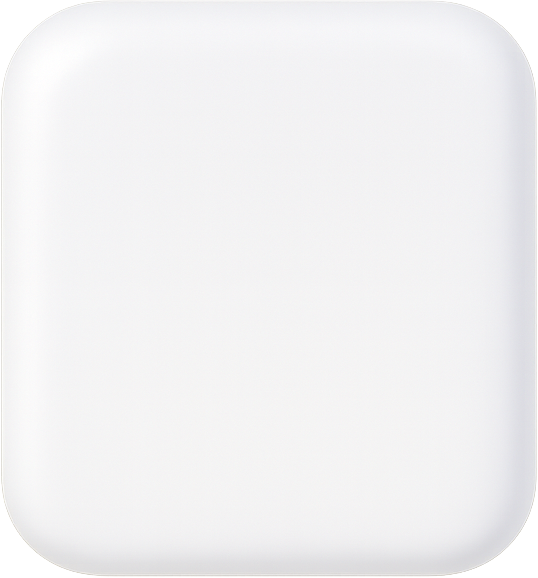
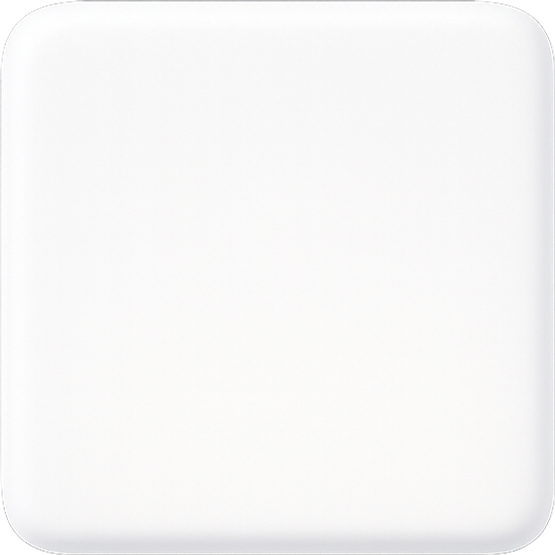
fix(canvas): the top-view cube is an exact square matching the 3/4 cube; the medium-full shot reads «۳/۴»
- cube-top regenerated from the 3/4 cube (same clay, rounding and shading) as a top face only, then cut to its solid shape (its soft
  shadow left out) and made exactly square (`square` in the generator; `--refinish` re-cuts saved raw images without generating).
- The shot size between medium and full is labelled «۳/۴» instead of «تا زانو» (a brief saying «تا زانو» still picks it).

diff --git a/scripts/generate-visual-assets.ts b/scripts/generate-visual-assets.ts
@@ -19,7 +19,8 @@ const STYLE="Isolated single object, 3D render in a soft matte clay style with a
  * lighting and level of simplification match across the pack. The list is in dependency order.
  */
 export const ANCHOR="person-side";
-export const ASSETS:{id:string;ref?:string;prompt:string;size:"1024x1024"|"1024x1536"|"1536x1024"}[]=[
+export const ASSETS:{id:string;ref?:string;prompt:string;size:"1024x1024"|"1024x1536"|"1536x1024";
+ /** Cut to its solid shape (no soft shadow) and made exactly square: a face that must have equal sides. */square?:boolean}[]=[
  {id:"person-side",size:"1024x1536",prompt:"A stylized faceless mannequin person standing upright, seen exactly from the side (profile, facing right), full body from head to feet: a smooth sphere head, a rounded capsule torso with the arm resting along the side, two straight rounded legs together. Neutral pose."},
  {id:"person-front",ref:"person-side",size:"1024x1536",prompt:"A stylized faceless mannequin person standing upright, seen exactly from the front, full body from head to feet: a smooth sphere head, a rounded capsule torso with arms resting along the sides, two straight rounded legs slightly apart. Neutral pose, symmetrical."},
  {id:"person-3q",ref:"person-front",size:"1024x1536",prompt:"The same faceless mannequin person standing upright, full body from head to feet, seen in a THREE-QUARTER view: the body turned 45 degrees so its front faces toward the viewer's RIGHT (we see the front and the left side of the body), arms resting along the sides, legs together. Neutral pose."},
@@ -100,7 +101,7 @@ for(const [pet,looks] of [["dog","a stylized medium-sized DOG standing on all fo
  * Anything but a character (a product, a car, a tree, a place alone) in «بوم»'s camera and lighting diagrams: one smooth, minimal clay cube, in a
  * three-quarter view from the side and showing only its top from above (beta).
  */
-ASSETS.push({id:"cube-top",ref:"cube-3q",size:"1024x1024",prompt:"The same rounded clay CUBE as the second reference seen exactly from DIRECTLY ABOVE (top-down orthographic view): only its top face, a rounded square with softly rounded edges; no sides visible."},
+ASSETS.push({id:"cube-top",ref:"cube-3q",size:"1024x1024",square:true,prompt:"The exact same smooth clay CUBE as the second reference (the same material, the same softly rounded edges and corners, the same light clay colour and soft shading), seen exactly from DIRECTLY ABOVE in a top-down orthographic view, perfectly square to the viewer: only its top face is visible, a PERFECT SQUARE with all four sides exactly equal and all four corners equally rounded, centred, edges parallel to the image edges; no side faces visible, no perspective, no tilt."},
  {id:"cube-3q",ref:"human-3q",size:"1024x1024",prompt:"A single smooth minimal CUBE, all sides equal, with softly rounded edges and corners and plain smooth faces, no details, no text, no logo, in a classic THREE-QUARTER view from a little above: we see its top face and two of its side faces, the vertical edge between the sides toward the viewer, the sides lit differently (the left one lighter) so it reads clearly as a 3D cube. Simple and elegant."});
 /** The people's worm's-eye view in plainer words (the image model refused one with the generic wording): a toy-like figure seen from the ground. */
 const PEOPLE=new Set(["human","woman"]);
@@ -135,8 +136,16 @@ async function generate(a:(typeof ASSETS)[number]):Promise<Buffer>{
  return Buffer.from(body.data[0].b64_json,"base64");
 }
 /** Trims the transparent margin, fits the object in 640px on its long side and saves an optimized PNG; returns the final size for the manifest. */
-async function finish(id:string,raw:Buffer):Promise<{width:number;height:number}>{
- const trimmed=await sharp(raw).trim({threshold:1}).toBuffer();
+async function finish(id:string,raw:Buffer,square=false):Promise<{width:number;height:number}>{
+ let trimmed=await sharp(raw).trim({threshold:1}).toBuffer();
+ if(square){
+  // The solid shape only (its soft shadow left out), stretched to an exact square (it is drawn as a face with equal sides).
+  const {data,info}=await sharp(trimmed).ensureAlpha().raw().toBuffer({resolveWithObject:true});
+  let x0=info.width,y0=info.height,x1=-1,y1=-1;
+  for(let y=0;y<info.height;y++)for(let x=0;x<info.width;x++)if(data[(y*info.width+x)*4+3]>160){if(x<x0)x0=x;if(x>x1)x1=x;if(y<y0)y0=y;if(y>y1)y1=y;}
+  const side=Math.max(x1-x0+1,y1-y0+1);
+  trimmed=await sharp(trimmed).extract({left:x0,top:y0,width:x1-x0+1,height:y1-y0+1}).resize({width:side,height:side,fit:"fill"}).png().toBuffer();
+ }
  const out=await sharp(trimmed).resize({width:640,height:640,fit:"inside",withoutEnlargement:true}).png({compressionLevel:9,palette:false}).toBuffer();
  await writeFile(path.join(OUT,id+".png"),out);
  const m=await sharp(out).metadata();
@@ -150,10 +159,14 @@ async function main(){
  for(const a of list){
   const raw=await generate(a);
   await writeFile(path.join(RAW,a.id+".png"),raw);
-  sizes[a.id]=await finish(a.id,raw);
+  sizes[a.id]=await finish(a.id,raw,a.square);
   console.log(a.id,sizes[a.id]);
  }
  console.log(JSON.stringify(sizes));
 }
 // Run only as a script (importing it, to read ASSETS, generates nothing).
-if(process.argv[1]&&import.meta.url===pathToFileURL(path.resolve(process.argv[1])).href)main().catch(e=>{console.error(e instanceof Error?e.message:e);process.exit(1);});
+if(process.argv[1]&&import.meta.url===pathToFileURL(path.resolve(process.argv[1])).href&&process.argv[2]==="--refinish")refinish(process.argv.slice(3));
+else if(process.argv[1]&&import.meta.url===pathToFileURL(path.resolve(process.argv[1])).href)main().catch(e=>{console.error(e instanceof Error?e.message:e);process.exit(1);});
+
+/** Re-finishes saved raw images without generating (`--refinish id ...`): a change to how they are cut, for free. */
+export async function refinish(ids:string[]){for(const id of ids){const a=ASSETS.find(x=>x.id===id);if(!a)continue;console.log(id,await finish(id,await readFile(path.join(RAW,id+".png")),a.square));}}

diff --git a/lib/staging.ts b/lib/staging.ts
@@ -4,7 +4,7 @@ import {VISUALS} from "./visual-assets";
 import {displayTag,fileTagOf,normalizeMentionText} from "./attachments";
 
 export const CAMERA_ANGLE_FA:Record<Staging["cameraAngle"],string>={birds_eye:"از بالا (نمای پرنده)",high:"زاویهٔ بالا",eye_level:"همسطح چشم",low:"زاویهٔ پایین",worms_eye:"از پایین (نمای کرم)",dutch:"زاویهٔ کج (داچ)"};
-export const SHOT_SIZE_FA:Record<Staging["shotSize"],string>={extreme_close_up:"خیلی نزدیک",close_up:"نمای نزدیک",medium_close_up:"نزدیک متوسط",medium:"نمای متوسط",medium_full:"تا زانو",full:"تمامقد",wide:"نمای باز",extreme_wide:"خیلی باز"};
+export const SHOT_SIZE_FA:Record<Staging["shotSize"],string>={extreme_close_up:"خیلی نزدیک",close_up:"نمای نزدیک",medium_close_up:"نزدیک متوسط",medium:"نمای متوسط",medium_full:"۳/۴",full:"تمامقد",wide:"نمای باز",extreme_wide:"خیلی باز"};
 export const LIGHT_ROLE_FA:Record<StagingLight["role"],string>={key:"نور اصلی",fill:"نور پرکننده",rim:"نور پشت",background:"نور پسزمینه",practical:"منبع داخل صحنه"};
 export const LIGHT_SOURCE_FA:Record<StagingLight["source"],string>={sun:"خورشید",sky:"نور آسمان",window:"پنجره",softbox:"سافتباکس",led_panel:"پنل LED",practical:"چراغ صحنه",neon:"نئون",fire:"آتش",moon:"ماه",flash:"فلاش"};
 export const LIGHT_QUALITY_FA:Record<StagingLight["quality"],string>={soft:"نرم",hard:"سخت"};

diff --git a/lib/visual-assets.ts b/lib/visual-assets.ts
@@ -11,7 +11,7 @@ export const VISUALS:Record<string,VisualAsset>={
  "camera-side":{src:"/visuals/camera-side.png",width:640,height:360},
  "camera-top":{src:"/visuals/camera-top.png",width:373,height:640},
  "cube-3q":{src:"/visuals/cube-3q.png",width:584,height:610},
- "cube-top":{src:"/visuals/cube-top.png",width:538,height:578},
+ "cube-top":{src:"/visuals/cube-top.png",width:555,height:555},
  "env-mountains":{src:"/visuals/env-mountains.png",width:640,height:376},
  "env-top":{src:"/visuals/env-top.png",width:606,height:640},
  "human-3q-back":{src:"/visuals/human-3q-back.png",width:157,height:640,hd:"/visuals/hd/human-3q-back.webp",hdHeight:1143},
